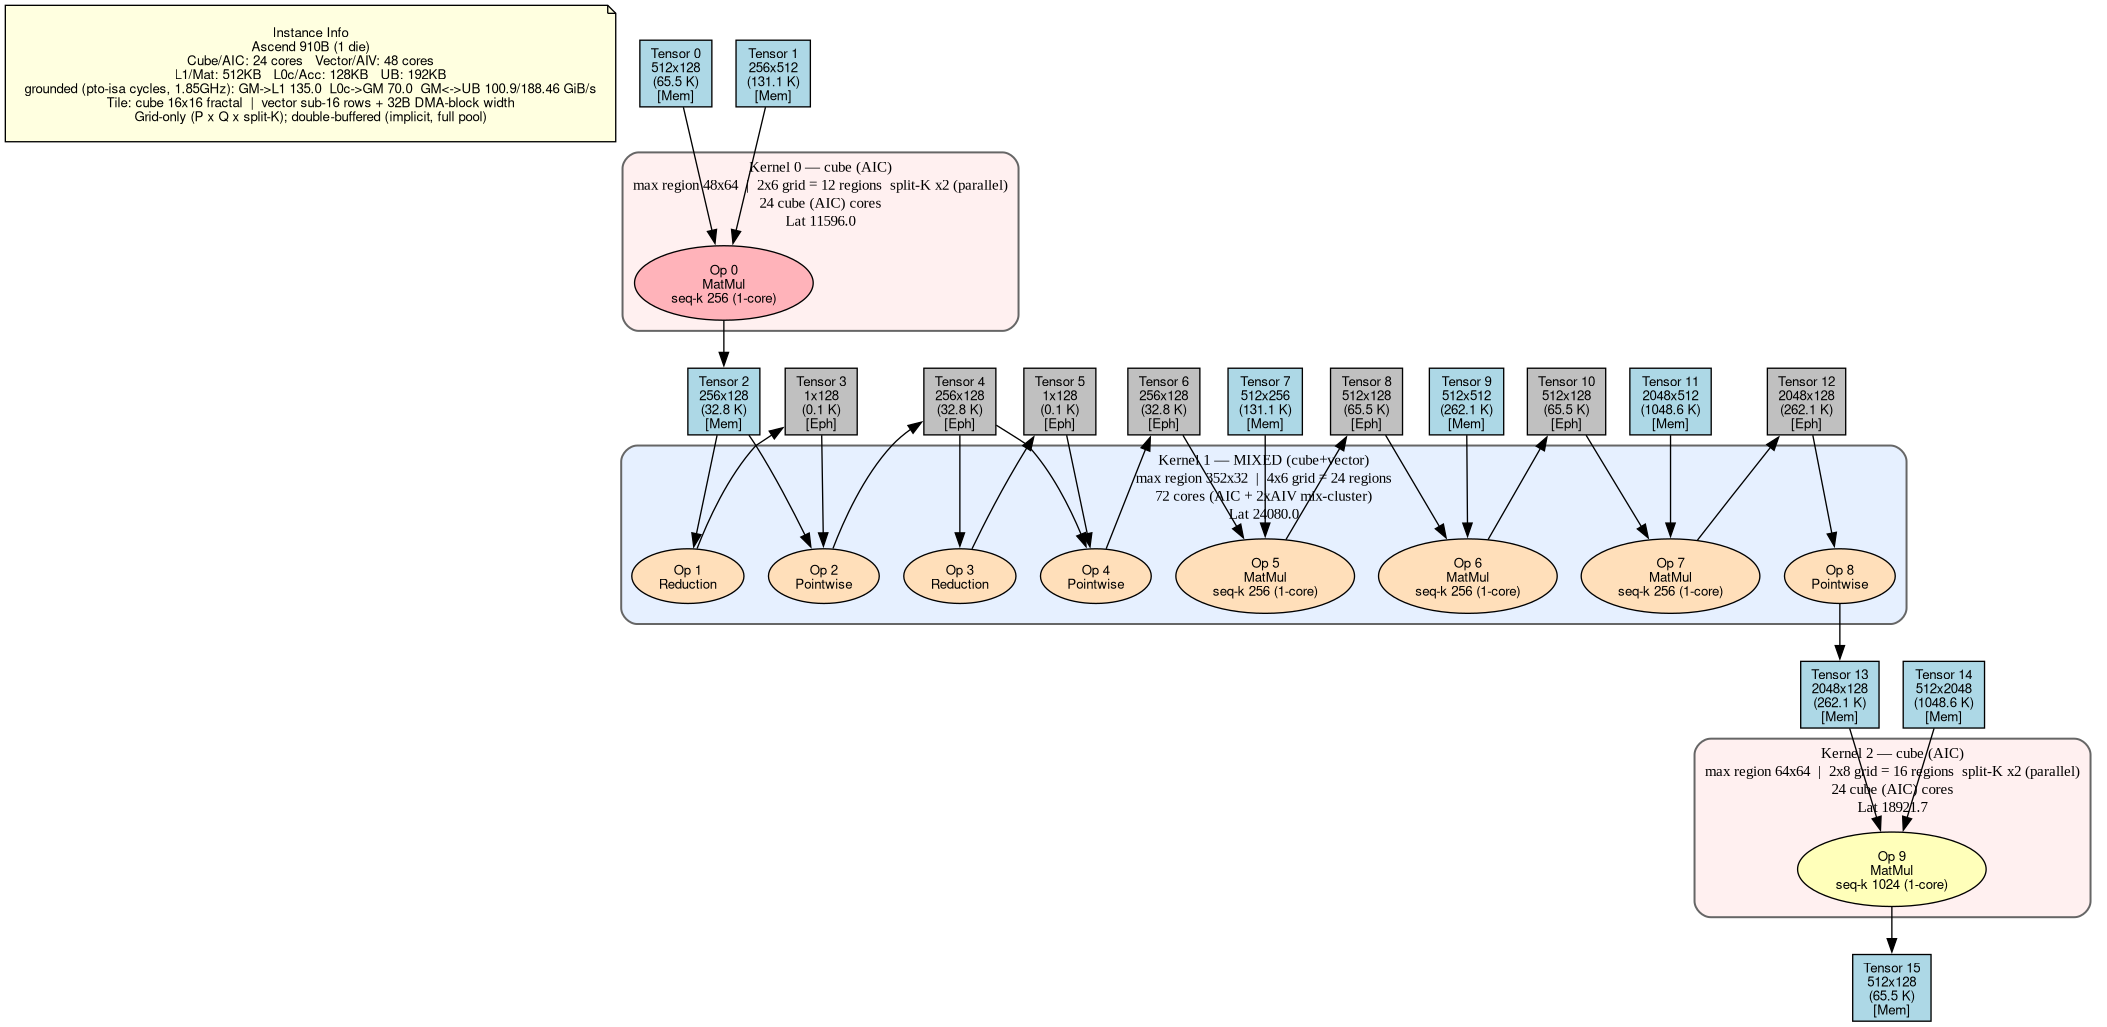
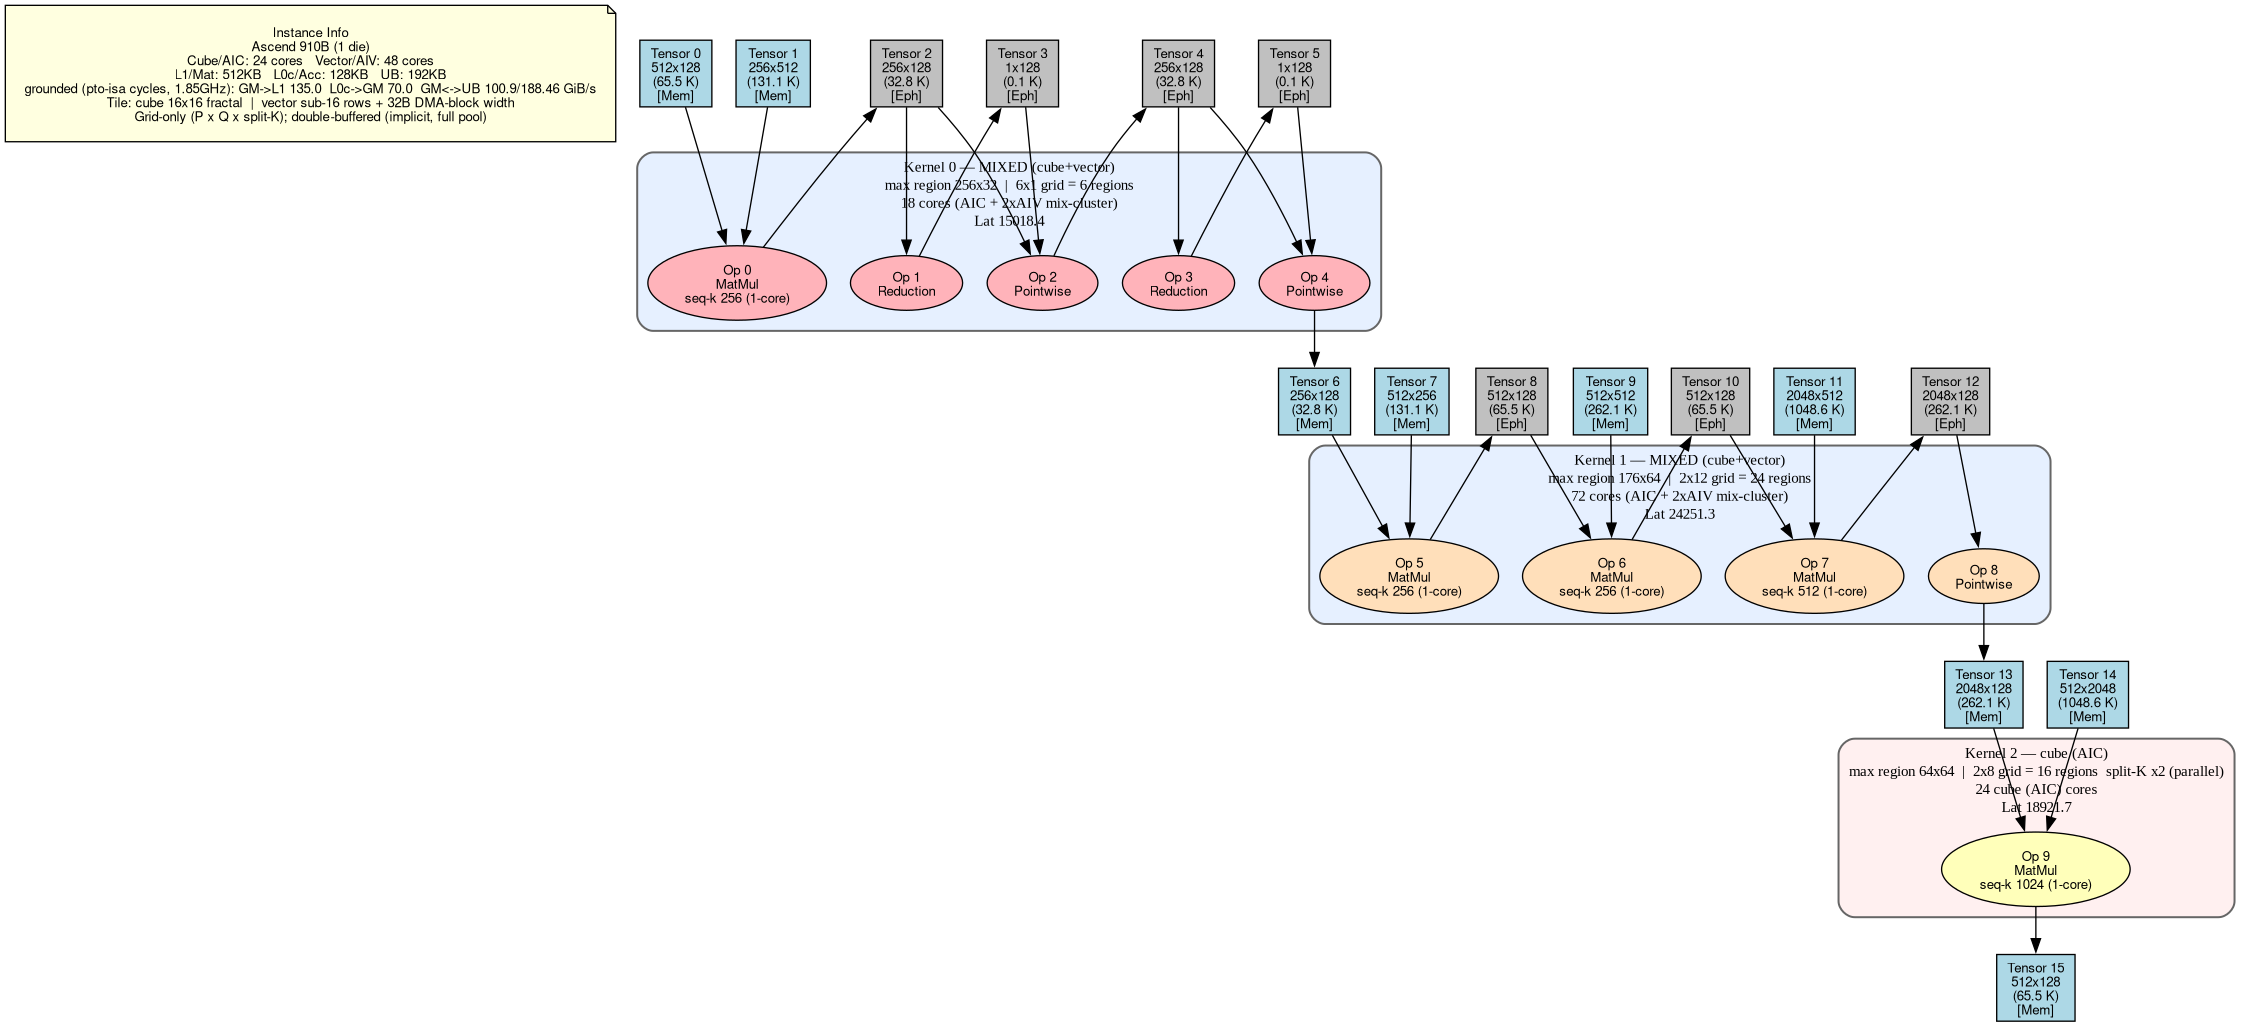
feat(910b): fused flash-attention — pin reduced axis + online-stream mid-kernel reductions
A mixed kernel can now fuse a mid-kernel reduction (matmul -> softmax) instead of
forcing the reduction to a sink. The rule: a reduction may sit mid-kernel iff its
reduced axis is not split across cores — there is no mid-kernel cross-core sync on
the 910B. Two changes make the fused QK->softmax feasible AND correctly costed:

- Grid pinning (Ascend910BCost::create, shared_m branch): a mixed subgraph carrying
  a reduction pins the reduced axis spatially (parts_n=1 for a width reduction,
  parts_m=1 for a height reduction), tiling only the orthogonal (query) axis. The
  matmul's own contraction rides seq-k / split-K, a separate axis chosen by the
  tiling. Pure-cube groups (reduced_axis_==0) are unchanged. Previously the cube
  branch tiled both axes, so a fused softmax split the keys axis -> infeasible.

- Streaming surcharge (Ascend910BMixed::compute_cost): when the pinned band overflows
  UB the schedule streams the reduced axis online (flash), touching each element once.
  Cost adds only the thin per-chunk correction (re-paid vector startup + O(ROWS)
  running-max/sum rescale), mirroring the homogeneous vector Fix-2 path — not a
  #reductions recompute blowup.

Adds the MIXFA regression (fused QK->softmax is admissible + feasible, keys pinned
parts_n==1 / queries tiled parts_m>1, feasibility via streaming). Doc §8 names the
flash-attention fusion; §12 calibration bullets merged to stay within the 500-line cap.
[…]

Changed region(s): [[0.0, 0.0, 1.0, 0.9971]]

diff --git a/test/ascend_910b_test.cpp b/test/ascend_910b_test.cpp
@@ -1231,6 +1231,37 @@ static void test_mixed_grid_makespan_multimatmul() {
           grid > 0.72 * total && grid < total);
 }
 
+// Fused FLASH ATTENTION: a mixed QK->softmax kernel keeps the reduced (keys) axis RESIDENT and
+// PINNED (parts_n=1), tiling only the query axis. The [query_tile x keys] scores overflow UB, so
+// feasibility comes from ONLINE streaming of the keys axis (flash), not materialization -- a
+// reduction can be mid-kernel iff its reduced axis is not split across cores. The matmul's own
+// contraction rides seq-k, a separate axis. Guards the grid pinning (step 1) + the streaming
+// surcharge (step 3) that make this feasible AND correctly costed.
+static void test_mixed_flash_attention() {
+    std::cout << "[MIXFA] fused QK->softmax pins the reduced axis + streams online (flash attention)\n";
+    Problem p; int64_t d = 64, S = 2048, B = 128;   // Q@K^T -> softmax(over keys) ; d=64, S_kv=2048
+    p.tensors = {{d, B}, {S, d}, {S, B}, {1, B}, {S, B}, {1, B}, {S, B}, {d, S}, {d, B}};
+    p.ops = {{OpType::MatMul, {0, 1}, {2}}, {OpType::Reduction, {2}, {3}},
+             {OpType::Pointwise, {2, 3}, {4}}, {OpType::Reduction, {4}, {5}},
+             {OpType::Pointwise, {4, 5}, {6}}, {OpType::MatMul, {6, 7}, {8}}};
+    p.fast_memory_capacity = 1LL << 30;
+    set_910b(p);
+    DAG dag = DAG::build(p);
+    auto sg = Ascend910BMixed::create(p, dag, {0, 1, 2, 3, 4});  // QK -> softmax (fused mixed)
+    CHECK("MIXFA: fused QK->softmax is admissible (mixed cube+vector)", (bool)sg);
+    auto fr = sg->best_cost();
+    CHECK("MIXFA: fused QK->softmax is feasible", fr.feasible && std::isfinite(fr.latency));
+    // keys = the reduced axis = width (S->1); the grid must PIN it (parts_n == 1) and tile only
+    // the query axis (parts_m > 1). Without step 1's pinning it split keys -> infeasible.
+    CHECK("MIXFA: reduced (keys) axis pinned (parts_n==1), queries tiled (parts_m>1)",
+          fr.config.parts_n == 1 && fr.config.parts_m > 1);
+    // Feasibility is via STREAMING: the materialized scores overflow UB, so keys is streamed
+    // online (flash), not resident whole.
+    CHECK("MIXFA: feasibility comes from online streaming (scores overflow UB)",
+          sg->vector_peak_ub(fr.config, {}, {}) > p.vec_capacity
+              && sg->vector_stream(fr.config, {}, {}).chunk > 0);
+}
+
 // Split-K (base lone matmul and mixed cube-sink) is MODEL-AHEAD of the AutoFuse emit. The
 // buildable flag Problem::allow_model_ahead_split_k gates it: default true (analytic) credits
 // parallel_split > 1; false (buildable) forces S=1 so best_cost never selects an unemittable
@@ -1965,6 +1996,7 @@ int main() {
     test_mixed_single_tile_no_skew();
     test_mixed_grid_makespan();
     test_mixed_grid_makespan_multimatmul();
+    test_mixed_flash_attention();
     test_model_ahead_split_k_flag();
     test_mixed_two_pool_feasibility();
     test_mixed_multistage_pebble();

diff --git a/src/core/ascend910b_cost.cpp b/src/core/ascend910b_cost.cpp
@@ -860,7 +860,14 @@ std::optional<Ascend910BCost> Ascend910BCost::create(const Problem &prob, const 
         shared_m = false;
     if (shared_m) {
       const int64_t kfrac = std::max<int64_t>(1, sg.output_K_ / 16);
-      gen_grid(std::max<int64_t>(1, prob.num_cube_cores), Fm, Fn, all_divisors(kfrac));
+      // A mixed subgraph with a REDUCTION (fused flash-attention style: matmul -> softmax)
+      // must PIN the reduction's reduced axis spatially — the reduction consumes the full
+      // axis online, and splitting it across cores would need a cross-core merge with no
+      // mid-kernel sync. The matmul's OWN contraction rides seq-k / split-K, a separate axis
+      // (the tiling chooses it). Pure cube (reduced_axis_ == 0) is unchanged: pm=Fm, pn=Fn.
+      const int64_t pm = (sg.reduced_axis_ == 2) ? 1 : Fm;  // height reduced -> pin M (parts_m=1)
+      const int64_t pn = (sg.reduced_axis_ == 1) ? 1 : Fn;  // width  reduced -> pin N (parts_n=1)
+      gen_grid(std::max<int64_t>(1, prob.num_cube_cores), pm, pn, all_divisors(kfrac));
     }
   } else if (sg.has_vector_) {
     // Vector: tile the output across the AIV cores. A reduced axis cannot be
@@ -1898,6 +1905,23 @@ CostResult Ascend910BMixed::compute_cost(const TileConfig &cfg,
       const bool pw = op.type != OpType::Reduction;
       vector_compute += VecOpCompute(prob_, op, reduced_axis_, /*pw_stream_start=*/pw && !prev_pw);
       prev_pw = pw;
+    }
+  }
+  // Fix 2 (UB-overflow streaming surcharge — mirror the homogeneous vector path). A fused
+  // flash-attention kernel (matmul -> softmax) keeps the reduced (keys) axis resident and
+  // PINNED, but it usually overflows UB, so the schedule streams that axis in chunks ONLINE
+  // (pto_macro_fa_softmax): each element is touched once, so compute is NOT multiplied by
+  // #reductions+1 — the only surcharge is a thin per-chunk correction (re-paid vector startup +
+  // an O(ROWS) running max/sum rescale). Same formula as the vector-only branch.
+  if (has_reduction_) {
+    const double budget = (double)prob_->vec_capacity;
+    const double peak = (double)vector_peak_ub(cfg, retained_from_prev, retain_these);
+    if (budget > 0.0 && peak > budget) {
+      int reductions = 0;
+      for (auto i : ops_)
+        if (prob_->ops[i].type == OpType::Reduction) reductions++;
+      const double nchunks = std::ceil(peak / budget);
+      vector_compute += nchunks * (double)reductions * (prob_->vec_op_head + prob_->vec_op_tail);
     }
   }
 

diff --git a/doc/grounded_cost_model.md b/doc/grounded_cost_model.md
@@ -324,9 +324,13 @@ buffers let its two cube matmuls pipeline). A `max` is wrong only for a genuine 
 worse). The **multi-round-trip** case is excluded at admission — `create()` rejects a group
 whose cube↔vector alternation depth exceeds 2 (the exact dual of the emit's `num_tpush!=1`
 demote), so it never reaches this cost. The **tile-carry** case needs no separate guard: a
-cross-tile reduction carry is prevented by the reduced-axis pinning in the tiling (§6) and, for
-a split-K merge, priced as atomic-add traffic — so the `max` is only ever applied to genuinely
-skewable groups. `vec_stage` pools
+cross-tile reduction carry is prevented by the reduced-axis **pinning** in the tiling (§6) — the
+mixed grid pins it (`parts_n=1`/`parts_m=1`) in **both** its cube- and vector-led branches, so a
+**mid-kernel** reduction stays resident on one unit and, when its coupled band overflows UB,
+**streams online** (fused flash attention `QK→softmax`; priced by §7's Fix-2 surcharge on the
+pooled `vec_stage`) — a matmul's own contraction rides a *separate* axis, chosen by the tiling. A
+split-K merge is instead priced as atomic-add traffic, so the `max` is only ever applied to
+genuinely skewable groups. `vec_stage` pools
 **all** Pointwise/Reduction ops (a `v→c→v`'s prologue *and* epilogue run on the same AIV pool).
 
 **The symmetric fill (grounded: shape sweep `mixed_vcv`/`vc`/`cvc`).** A 2-stage wall is the
@@ -448,16 +452,13 @@ Among equal-latency configs, lexicographic:
 
 ## 12. Known limitations / open calibration
 
-- **Calibration constants** — the reduction tree (`45/51/16/30`, §7 Fix 1) and the
-  streaming surcharge (§7 Fix 2) are now **perf-sim-grounded** (`pto-isa vec_tile_study`,
-  R²≈1.0) but **device-eval-pending** (the perf-sim's count-mode flat-per-pass is itself
-  coarse vs real HW). The vector double-buffer threshold (`2·vec_reg_bytes`) and the
-  DMA-shape burst (`vec_reg_bytes`) remain reasoned bounds, not measured.
-- **Vector double-buffer / DMA-shape thresholds** remain reasoned bounds (above). All three
-  per-op pessimisms — reduction cost (Fix 1), streaming recompute (Fix 2), and per-op startup
-  (Fix 3, now once-per-stream via `pw_stream_start`) — are perf-sim-grounded and device-eval-
-  pending. The stream-break heuristic (reductions/matmuls reset the chain) is an approximation
-  of the true VEC-queue-empty condition; exact only when the op order matches the emit.
+- **Calibration constants (perf-sim-grounded, device-eval-pending).** The reduction tree
+  (`45/51/16/30`, §7 Fix 1), streaming surcharge (Fix 2), and per-op startup (Fix 3, once-per-
+  stream via `pw_stream_start`) are perf-sim-grounded (`pto-isa vec_tile_study`, R²≈1.0) but
+  device-eval-pending (count-mode flat-per-pass is itself coarse vs real HW). The vector
+  double-buffer threshold (`2·vec_reg_bytes`) and DMA-shape burst (`vec_reg_bytes`) remain
+  reasoned bounds, not measured. The stream-break heuristic (reductions/matmuls reset the chain)
+  approximates the true VEC-queue-empty condition; exact only when the op order matches the emit.
 - **Per-tile compute overhead.** The vector *compute* is still tiling-invariant
   (full-op cost) — it charges no per-tile SIMD pipeline-fill. So among same-width
   tiles, "favor larger tiles" is a *tiebreak* (§10.5), not cost-driven. (The DMA